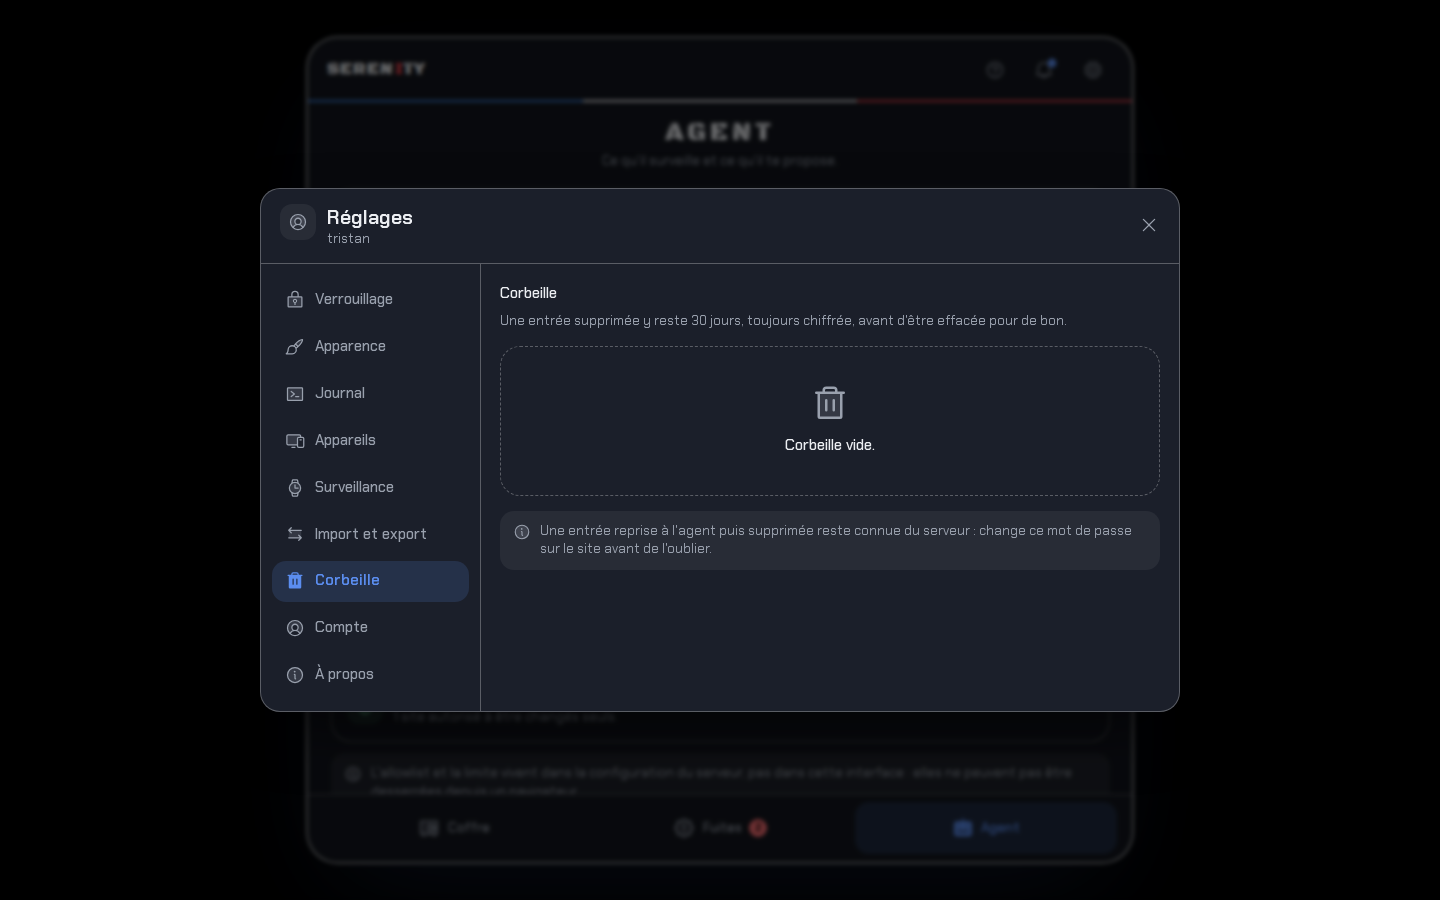
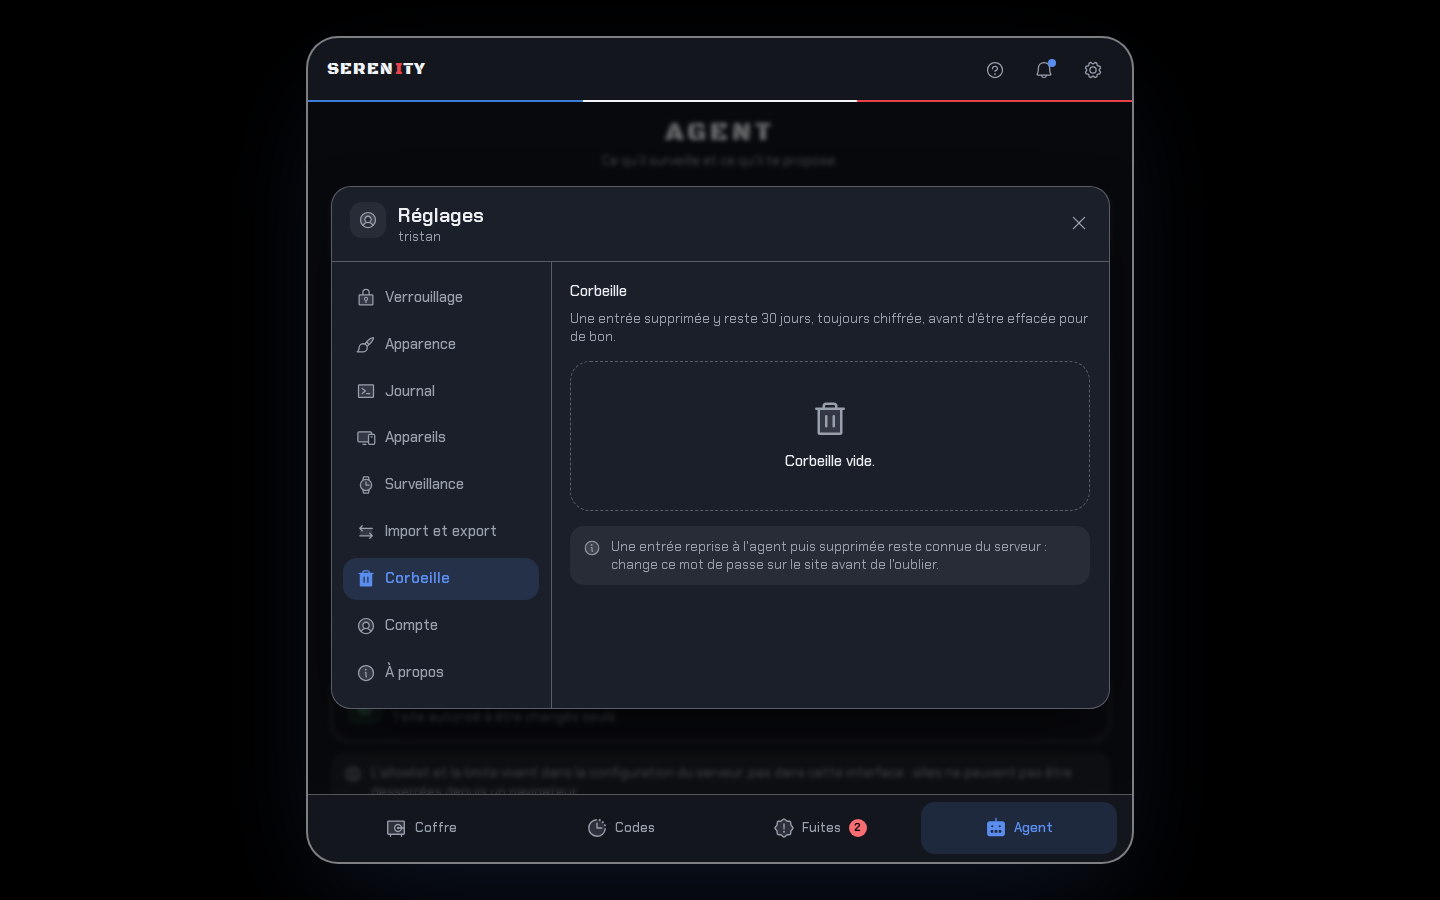
feat(ui): les dialogues se posent dans le carré, plus par-dessus la fenêtre (#66)
Demandé par Tristan : rien ne doit sortir du carré.

Fiche, éditeur, réglages, guide, notifications et confirmations couvraient la
fenêtre entière, ce qui faisait sortir l'appli de son objet sur un écran
d'ordinateur. Ils atterrissent maintenant dans un emplacement dédié à
l'intérieur du carré (`dialog-slot`), exactement comme les messages éphémères
le faisaient déjà avec `toast-slot`.

- Le voile assombri s'arrête au bord du carré : la barre de titre et les
  onglets restent visibles autour du dialogue.
- La hauteur maximale d'un dialogue devient celle du carré, plus celle de la
  fenêtre.
- Sans carré, sur les écrans d'entrée, un dialogue retombe sur la fenêtre :
  le comportement d'avant, là où il n'y a pas d'objet où se poser.
- Le parcours d'interface attend la fin de la sortie d'un dialogue avant
  d'en ouvrir un autre : deux dialogues présents une fraction de seconde
  rendaient le test ambigu.

Claude-Session: https://claude.ai/code/session_017a28Z7BitobubucsP3B1ue

diff --git a/web/src/design/Modal.tsx b/web/src/design/Modal.tsx
@@ -1,6 +1,7 @@
 import { XIcon, type Icon } from "@phosphor-icons/react";
 import { AnimatePresence, motion, useReducedMotion } from "motion/react";
-import { useEffect, useRef, type ReactNode } from "react";
+import { useEffect, useRef, useState, type ReactNode } from "react";
+import { createPortal } from "react-dom";
 import { IconButton } from "./Button";
 import { Chip } from "./Chip";
 import { DIALOG, PERSPECTIVE } from "./motion";
@@ -13,6 +14,13 @@ const WIDTHS: Record<Size, string> = {
   md: "max-w-[560px]",
   lg: "max-w-[920px]",
 };
+
+/**
+ * Where a dialog lands: a slot inside the square, like the toasts. Nothing of the app ever
+ * paints over the window; the square is the whole object. Without the slot (the entry screens,
+ * before the frame exists) the dialog falls back to the viewport.
+ */
+const SLOT = "dialog-slot";
 
 /** Dialogs stack (an editor over a record): only the last one locks the page scroll. */
 let openCount = 0;
@@ -99,11 +107,17 @@ export function Modal({
     };
   }, [open, onClose]);
 
-  return (
+  // The frame mounts after the dialogs in the tree, so the slot is looked up on every opening.
+  const [slot, setSlot] = useState<HTMLElement | null>(null);
+  useEffect(() => {
+    setSlot(document.getElementById(SLOT));
+  }, [open]);
+
+  const dialog = (
     <AnimatePresence>
       {open ? (
         <div
-          className="fixed inset-0 z-40 flex items-center justify-center p-4 sm:p-6"
+          className={`${slot ? "absolute" : "fixed"} inset-0 z-40 flex items-center justify-center p-4 sm:p-6`}
           style={{ perspective: PERSPECTIVE }}
         >
           <motion.div
@@ -120,7 +134,7 @@ export function Modal({
             aria-modal="true"
             aria-label={title}
             tabIndex={-1}
-            className={`relative z-10 flex max-h-[min(88dvh,860px)] w-full flex-col overflow-hidden rounded-card border border-line bg-raised shadow-[0_24px_60px_-12px_var(--color-shade)] outline-none ${WIDTHS[size]}`}
+            className={`relative z-10 flex max-h-full w-full flex-col overflow-hidden rounded-card border border-line bg-raised shadow-[0_24px_60px_-12px_var(--color-shade)] outline-none ${WIDTHS[size]}`}
             {...(reduce
               ? { initial: { opacity: 0 }, animate: { opacity: 1 }, exit: { opacity: 0 } }
               : { variants: DIALOG, initial: "initial", animate: "animate", exit: "exit" })}
@@ -156,4 +170,6 @@ export function Modal({
       ) : null}
     </AnimatePresence>
   );
+
+  return slot ? createPortal(dialog, slot) : dialog;
 }

diff --git a/web/src/app/shell/Shell.tsx b/web/src/app/shell/Shell.tsx
@@ -120,8 +120,9 @@ export function Shell() {
             </motion.div>
           </AnimatePresence>
         </main>
-        {/* Where the toasts land: inside the square, never over the window. */}
+        {/* Where the toasts and the dialogs land: inside the square, never over the window. */}
         <div id="toast-slot" className="pointer-events-none absolute inset-0 z-30" />
+        <div id="dialog-slot" className="absolute inset-0 z-40 empty:pointer-events-none" />
       </AppFrame>
       <EntryDialog
         entry={openedEntry ? (byId.get(openedEntry) ?? null) : null}

diff --git a/docs/design.md b/docs/design.md
@@ -46,6 +46,13 @@ travaille. Il vit dans les réglages, et l'écran Agent y renvoie.
 « Verrouiller maintenant » n'est pas non plus dans la barre de titre : c'est une action de
 réglage, pas une action de tous les jours (le verrouillage automatique s'en charge).
 
+**Rien ne sort du carré.** Les dialogues (fiche, éditeur, réglages, guide, notifications,
+confirmations) et les messages éphémères se posent **dans** le carré, jamais par-dessus la
+fenêtre : ils atterrissent dans deux emplacements dédiés (`toast-slot`, `dialog-slot`), et le
+voile assombri s'arrête au bord de l'objet. Sur un téléphone, le carré est l'écran, donc ça
+revient au même ; sur un ordinateur, l'appli reste un objet posé, même quand elle pose une
+question. Sans carré (les écrans d'entrée), un dialogue retombe sur la fenêtre.
+
 **L'ajout d'une entrée flotte** en bas à droite du carré, au-dessus du contenu qui défile et à
 l'écart des messages éphémères : c'est la seule action qu'on lance depuis n'importe où dans le
 coffre, elle ne dispute donc pas sa place au titre.

diff --git a/CHANGELOG.md b/CHANGELOG.md
@@ -115,6 +115,11 @@ versionnage : [SemVer](https://semver.org/lang/fr/).
   sont maintenant dessinés dans les mêmes lettres que « SERENITY », avec Black Ops One servie
   localement comme les deux autres polices. Elle ne sert qu'aux titres : trois mots par écran,
   jamais une phrase.
+- **Les dialogues restent dans le carré.** Fiche, éditeur, réglages, guide, notifications et
+  confirmations se posaient par-dessus la fenêtre entière, ce qui faisait sortir l'appli de son
+  objet. Ils atterrissent maintenant dans un emplacement à l'intérieur du carré, comme les
+  messages éphémères le faisaient déjà : le voile s'arrête au bord, la barre de titre et les
+  onglets restent visibles autour.
 - **Un onglet Codes.** Tous les codes à deux facteurs du coffre sur un écran : code en direct,
   anneau des secondes restantes, copie en un geste, recherche. Le calcul était déjà là
   (RFC 6238 dans le navigateur, avec Web Crypto) mais il fallait ouvrir une entrée pour voir un
